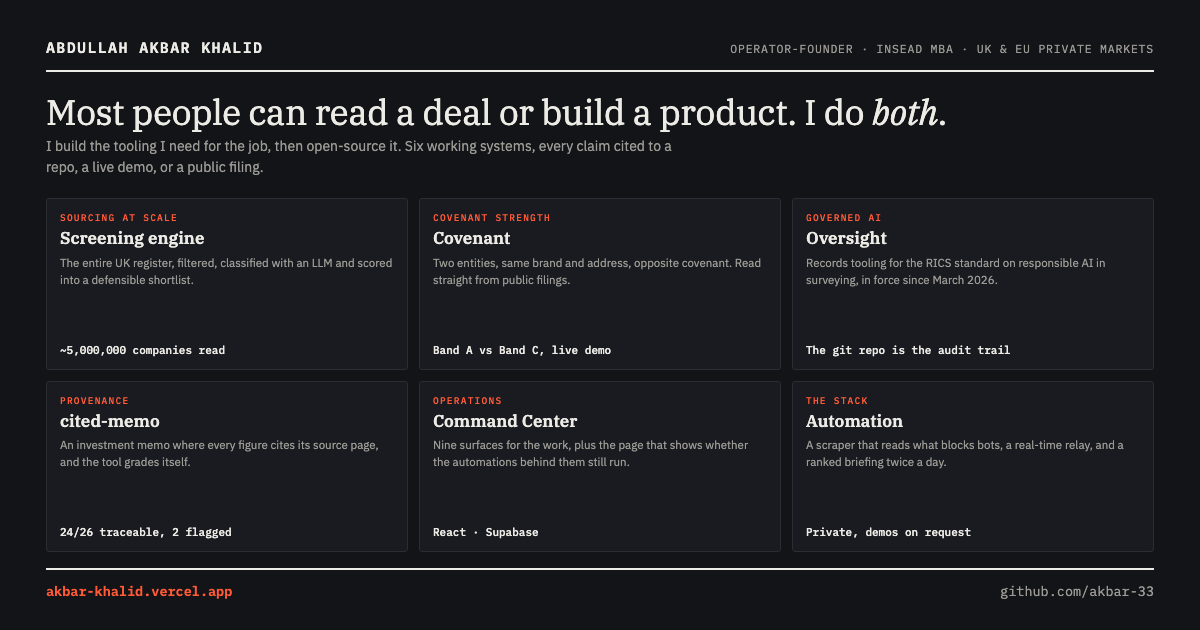
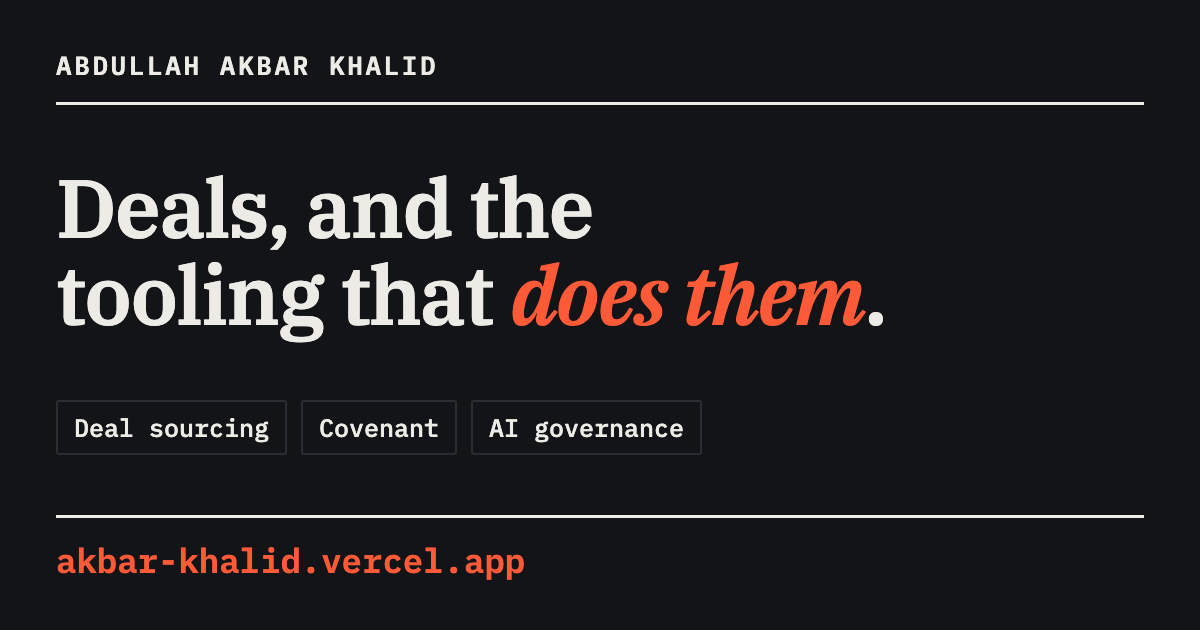
Simplify the overview thumbnail for small display
Six dense panels were unreadable at Featured-tile size. Eight words,
82px headline, three keyword chips.

diff --git a/media/src/overview.html b/media/src/overview.html
@@ -1,49 +1,22 @@
 <meta charset="utf-8">
-<link href="https://fonts.googleapis.com/css2?family=IBM+Plex+Mono:wght@400;500;600&family=IBM+Plex+Sans:wght@400;500&family=IBM+Plex+Serif:ital,wght@0,400;0,600;1,400&display=swap" rel="stylesheet">
+<link href="https://fonts.googleapis.com/css2?family=IBM+Plex+Mono:wght@500;600&family=IBM+Plex+Sans:wght@400;500&family=IBM+Plex+Serif:ital,wght@0,400;0,600;1,600&display=swap" rel="stylesheet">
 <style>
-:root{--paper:#131418;--ink:#EDEBE5;--red:#FF5A38;--rule:#2B2D34;--muted:#9B9A94;--card:#191B21;
+:root{--paper:#131418;--ink:#EDEBE5;--red:#FF5A38;--rule:#2B2D34;--muted:#9B9A94;
 --serif:"IBM Plex Serif",Georgia,serif;--sans:"IBM Plex Sans",sans-serif;--mono:"IBM Plex Mono",monospace}
 *{margin:0;padding:0;box-sizing:border-box}
 body{width:1200px;height:630px;background:var(--paper);color:var(--ink);font-family:var(--sans);
-display:flex;flex-direction:column;padding:38px 46px 30px;overflow:hidden}
-.top{display:flex;justify-content:space-between;align-items:baseline;border-bottom:2px solid var(--ink);padding-bottom:13px}
-.nm{font-family:var(--mono);font-size:15px;font-weight:600;letter-spacing:.09em;text-transform:uppercase}
-.meta{font-family:var(--mono);font-size:11.5px;color:var(--muted);letter-spacing:.07em}
-h1{font-family:var(--serif);font-size:35px;font-weight:400;line-height:1.15;margin:20px 0 4px;letter-spacing:-.01em}
-h1 em{font-style:italic}
-.sub{color:var(--muted);font-size:14px;max-width:76ch;line-height:1.5}
-.grid{display:grid;grid-template-columns:repeat(3,1fr);gap:11px;margin-top:20px;flex:1}
-.c{border:1px solid var(--rule);background:var(--card);border-radius:3px;padding:12px 13px;display:flex;flex-direction:column}
-.c .lb{font-family:var(--mono);font-size:9.5px;letter-spacing:.13em;text-transform:uppercase;color:var(--red);font-weight:500}
-.c .nmm{font-family:var(--serif);font-size:17px;font-weight:600;margin:5px 0 5px;line-height:1.15}
-.c .d{color:var(--muted);font-size:11.5px;line-height:1.5;flex:1}
-.c .n{font-family:var(--mono);font-size:11px;color:var(--ink);margin-top:7px;font-weight:500}
-.bot{display:flex;justify-content:space-between;align-items:baseline;border-top:2px solid var(--ink);padding-top:12px;margin-top:16px;font-family:var(--mono);font-size:13.5px}
-.bot b{color:var(--red);font-weight:600}
-.bot span.r{color:var(--muted)}
+display:flex;flex-direction:column;justify-content:space-between;padding:48px 56px;overflow:hidden}
+.nm{font-family:var(--mono);font-size:26px;font-weight:600;letter-spacing:.1em;text-transform:uppercase;
+  border-bottom:3px solid var(--ink);padding-bottom:20px}
+h1{font-family:var(--serif);font-size:82px;font-weight:600;line-height:1.06;letter-spacing:-.02em}
+h1 em{font-style:italic;color:var(--red)}
+.row{display:flex;gap:14px;flex-wrap:wrap}
+.row span{font-family:var(--mono);font-size:25px;font-weight:500;color:var(--ink);
+  border:2px solid var(--rule);border-radius:3px;padding:9px 16px}
+.url{font-family:var(--mono);font-size:34px;font-weight:600;color:var(--red);
+  border-top:3px solid var(--ink);padding-top:20px}
 </style>
-<div class="top"><span class="nm">Abdullah Akbar Khalid</span>
-<span class="meta">OPERATOR-FOUNDER · INSEAD MBA · UK &amp; EU PRIVATE MARKETS</span></div>
-<h1>Most people can read a deal or build a product. I do <em>both</em>.</h1>
-<div class="sub">I build the tooling I need for the job, then open-source it. Six working systems, every claim cited to a repo, a live demo, or a public filing.</div>
-<div class="grid">
-  <div class="c"><span class="lb">Sourcing at scale</span><span class="nmm">Screening engine</span>
-    <span class="d">The entire UK register, filtered, classified with an LLM and scored into a defensible shortlist.</span>
-    <span class="n">~5,000,000 companies read</span></div>
-  <div class="c"><span class="lb">Covenant strength</span><span class="nmm">Covenant</span>
-    <span class="d">Two entities, same brand and address, opposite covenant. Read straight from public filings.</span>
-    <span class="n">Band A vs Band C, live demo</span></div>
-  <div class="c"><span class="lb">Governed AI</span><span class="nmm">Oversight</span>
-    <span class="d">Records tooling for the RICS standard on responsible AI in surveying, in force since March 2026.</span>
-    <span class="n">The git repo is the audit trail</span></div>
-  <div class="c"><span class="lb">Provenance</span><span class="nmm">cited-memo</span>
-    <span class="d">An investment memo where every figure cites its source page, and the tool grades itself.</span>
-    <span class="n">24/26 traceable, 2 flagged</span></div>
-  <div class="c"><span class="lb">Operations</span><span class="nmm">Command Center</span>
-    <span class="d">Nine surfaces for the work, plus the page that shows whether the automations behind them still run.</span>
-    <span class="n">React · Supabase</span></div>
-  <div class="c"><span class="lb">The stack</span><span class="nmm">Automation</span>
-    <span class="d">A scraper that reads what blocks bots, a real-time relay, and a ranked briefing twice a day.</span>
-    <span class="n">Private, demos on request</span></div>
-</div>
-<div class="bot"><span><b>akbar-khalid.vercel.app</b></span><span class="r">github.com/akbar-33</span></div>
+<div class="nm">Abdullah Akbar Khalid</div>
+<h1>Deals, and the<br>tooling that <em>does them</em>.</h1>
+<div class="row"><span>Deal sourcing</span><span>Covenant</span><span>AI governance</span></div>
+<div class="url">akbar-khalid.vercel.app</div>
